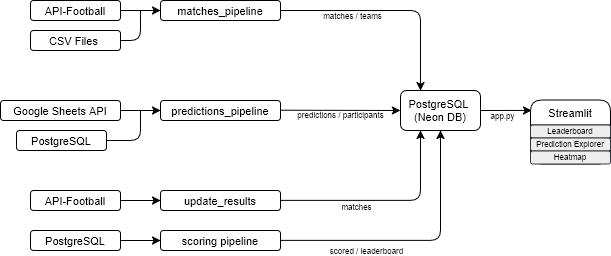
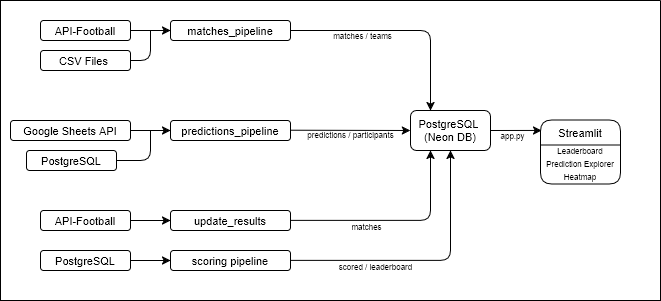
Added screenshots to readme

Changed region(s): [[0.0, 0.0, 1.0, 1.0]]

diff --git a/dashboards/app.py b/dashboards/app.py
@@ -25,12 +25,12 @@ col2.metric("Líder", leaderboard_df.iloc[0]["nombre"])
 
 
 # Predictions by participant
-pred_df = pd.read_sql("""SELECT date, name AS nombre, forms_match_id as id,
+pred_df = pd.read_sql("""SELECT date AS fecha, name AS nombre, forms_match_id as id,
                                 spa_home_team || ' vs ' || spa_away_team AS partido, 
                                 spa_pred AS predicción, spa_outcome AS resultado, points AS puntos 
                                 FROM scored
                                 ORDER BY date""",engine)
-pred_df['date'] = (pd.to_datetime(pred_df['date'], utc=True)
+pred_df['fecha'] = (pd.to_datetime(pred_df['fecha'], utc=True)
                    .dt.tz_convert("America/Mexico_City")
                    .dt.strftime("%Y-%m-%d  |  %H:%M"))
 participant = st.selectbox("Selecciona un participante", sorted(pred_df["nombre"].unique()))

diff --git a/README.md b/README.md
@@ -1,8 +1,11 @@
 # World Cup Pool
 
 A web application for managing and tracking FIFA World Cup 2026 predictions. 
+      
       - Participants submit match predictions via Google Forms.
+      
       - Results are automatically updated from API-Football and predictions are scored after every result update. 
+      
       - Leaderboard, participant predicitons and map of correct answers are displayed through an interactive dashboard (Streamlit).
 
 ## Features
@@ -10,12 +13,17 @@ A web application for managing and tracking FIFA World Cup 2026 predictions.
 - PostgreSQL database hosted on NeonDB.
 
 - Scheduled updates via GitHub Actions.
+
       - Automated match result updates from API-Football.
+
       - Automated scoring pipeline.
 
 - Streamlit web dashboard.
+
       - Leaderboard rankings.
+
       - Participant prediction explorer.
+
       - Correct predictions map.
 
 ## Tech Stack 
@@ -43,3 +51,15 @@ Data Source
 
 ## Database schema
 ![db_schema](assets/postgre_tables.png)
+
+## Streamlit App Screenshots
+Screenshots use anonymized participant names for privacy.
+
+### Leaderboard
+![leaderboard](assets/lb.png)
+
+### Predictions by participants
+![predictions_by_participants](assets/preds.png)
+
+### Map of correct predictions
+![correct_predictions_map](assets/map.png)